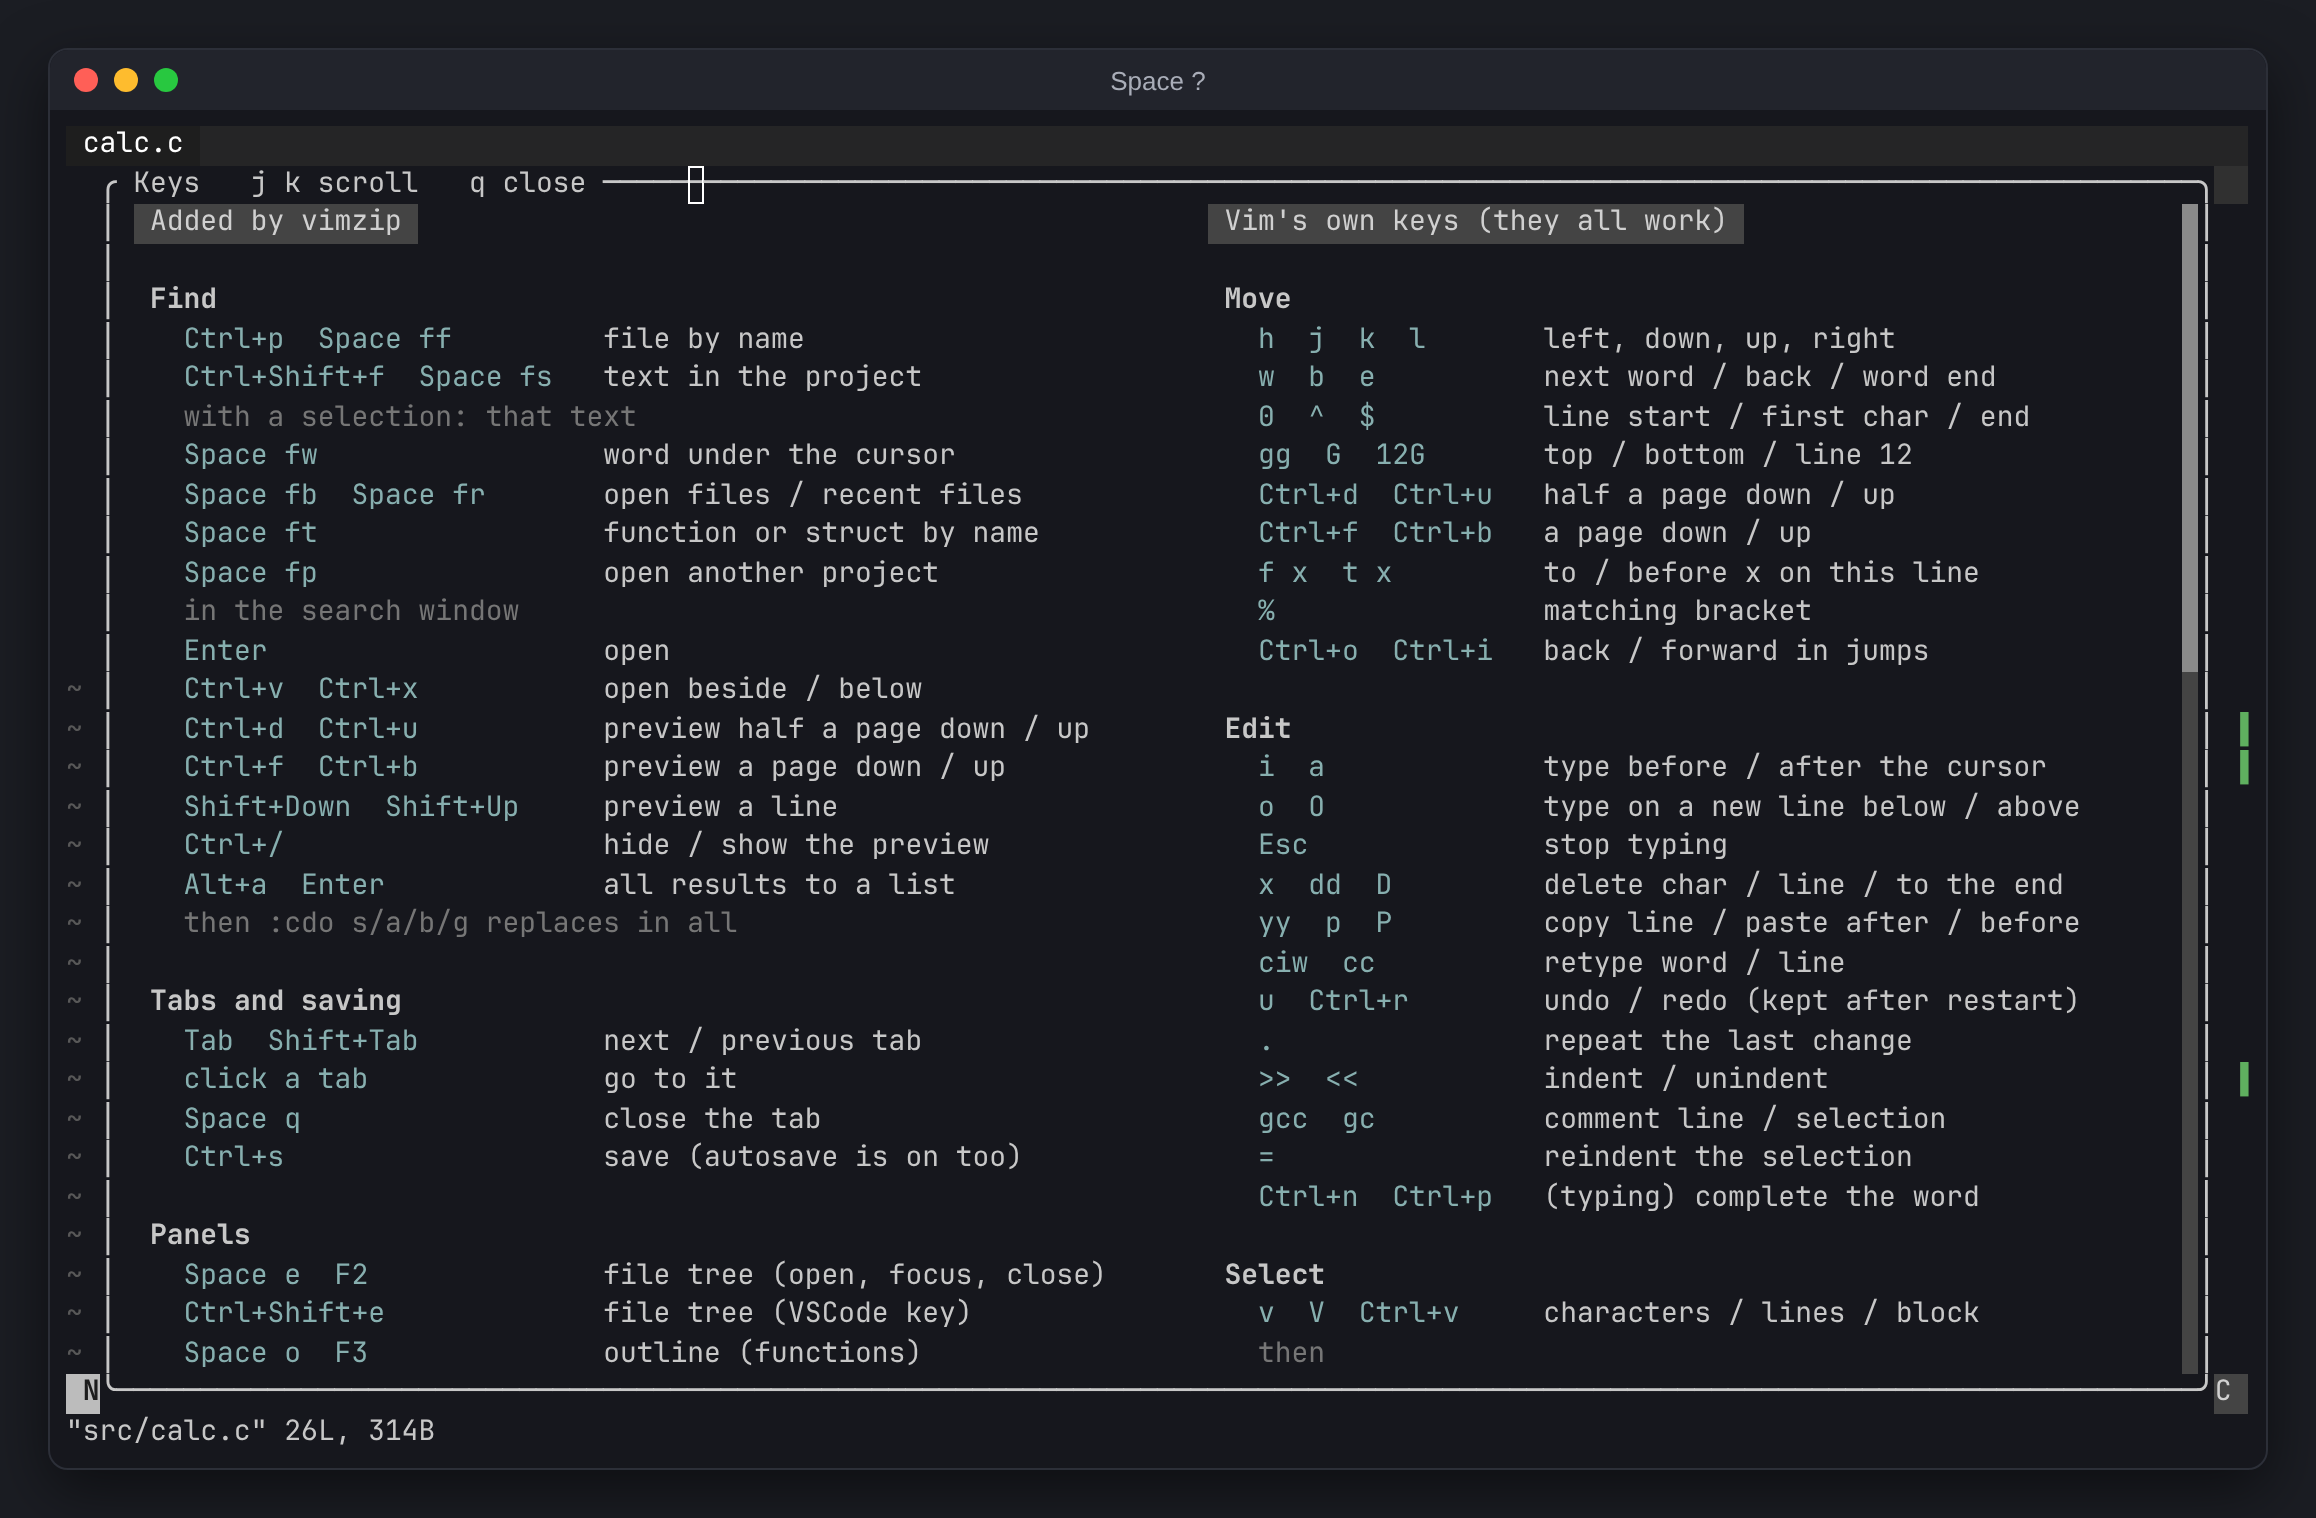
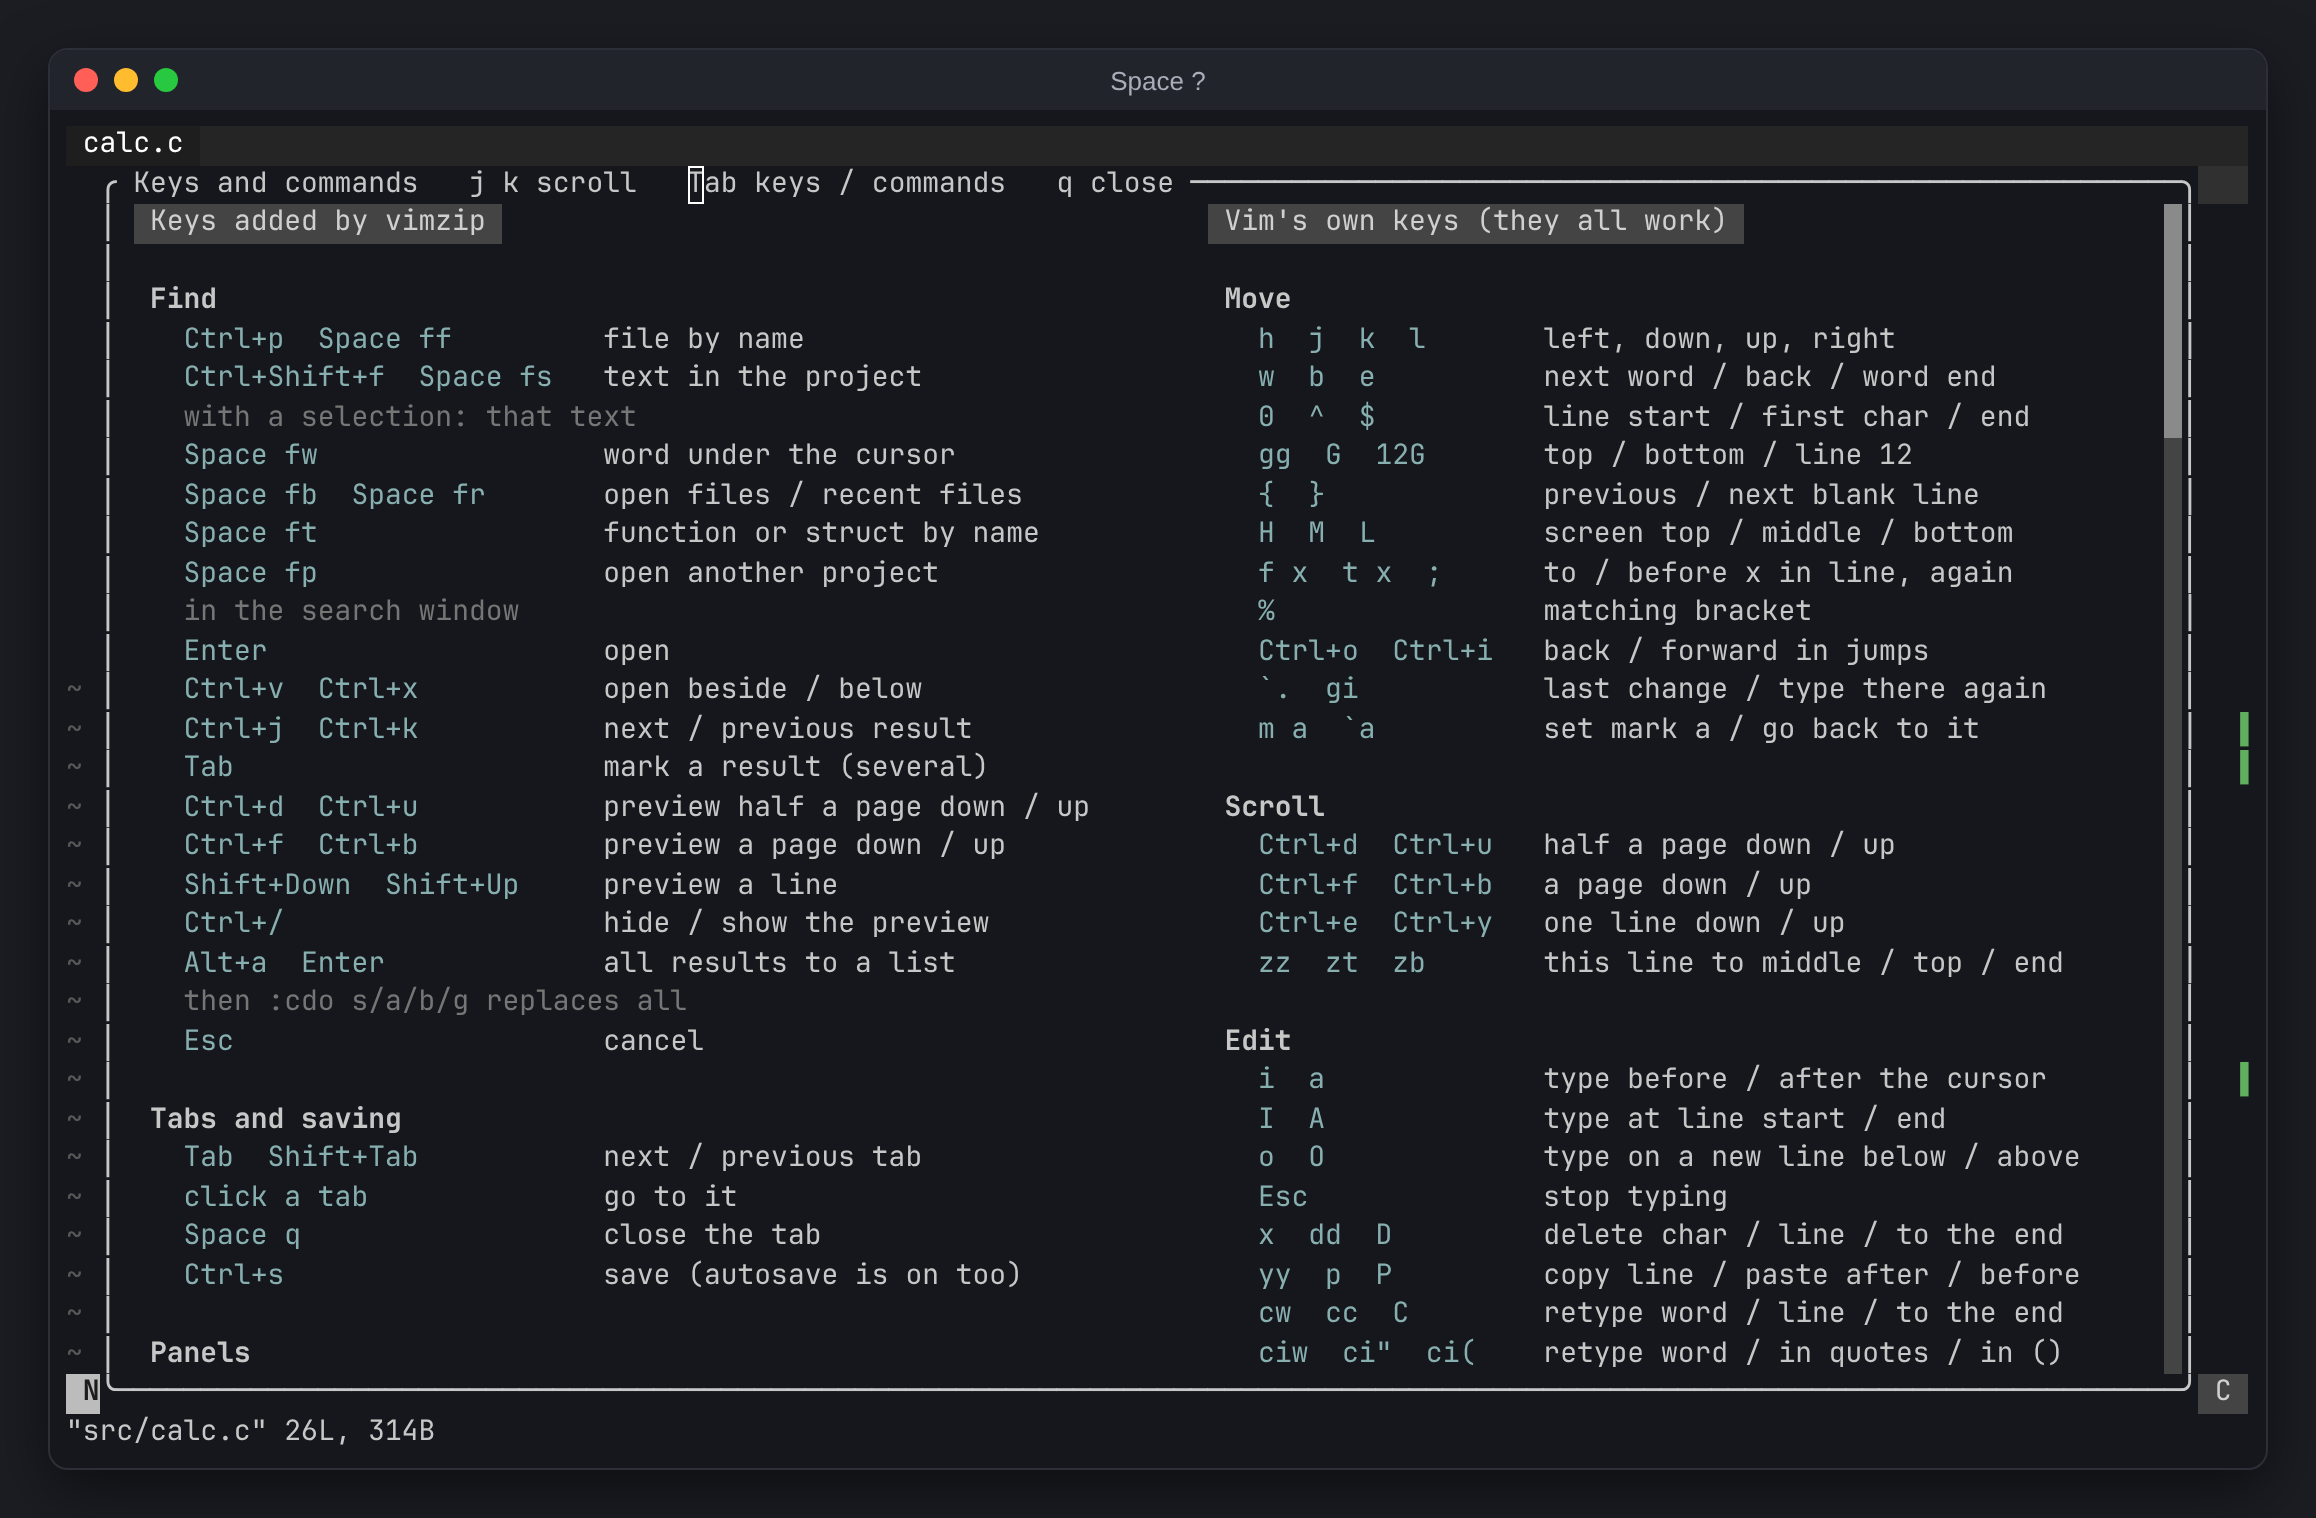
feat: more keys and : commands of vim and the plugins in Space ?

diff --git a/README.md b/README.md
@@ -31,7 +31,7 @@ Opens the file tree and the files you had open last time. Files save themselves.
 - **Debug**: gdb with breakpoints (`F5`, `F9`, `F10`, `F11`)
 
 Vim's own keys all work. The added ones are grouped under `Space` by topic (`f` find, `g` git,
-`c` code, `t` terminal, `d` debug). **`Space ?` shows every key.**
+`c` code, `t` terminal, `d` debug). **`Space ?` shows every key and `:` command.**
 
 ![Space ?](docs/keys.png)
 
